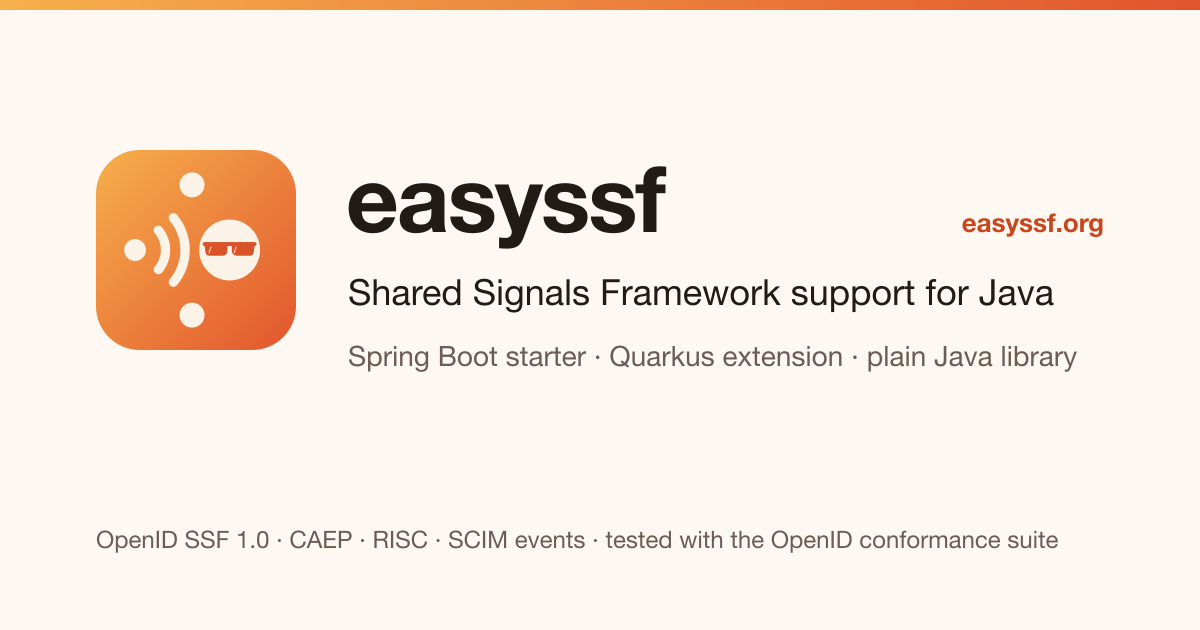
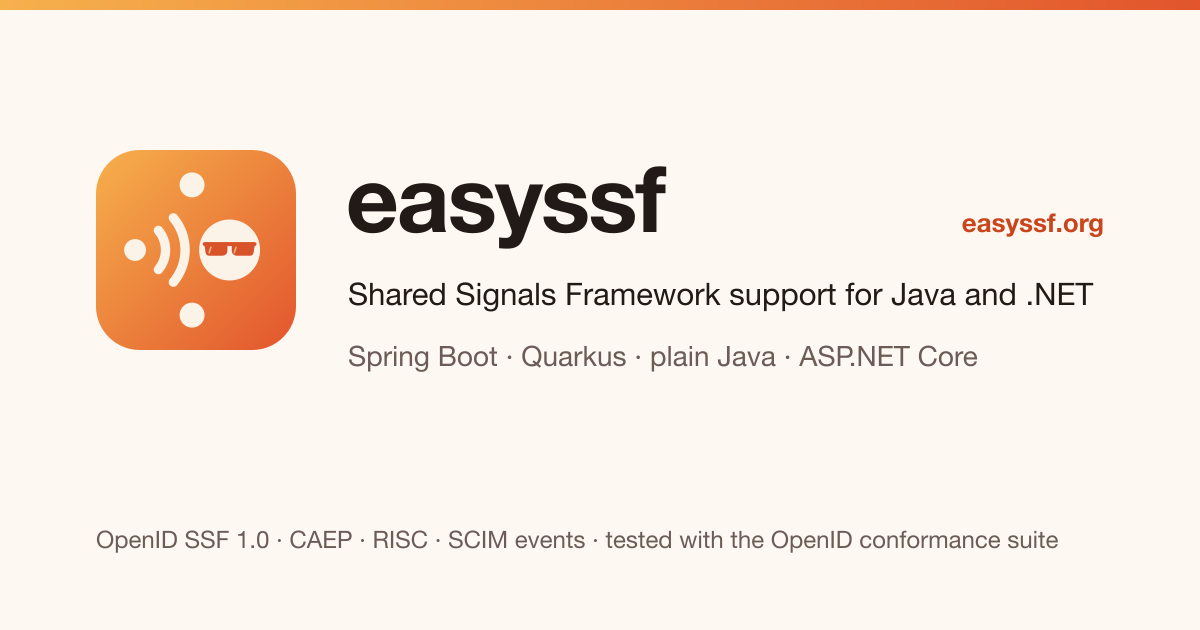
Broaden easyssf claim to include .NET support

Changed region(s): [[0.4317, 0.5429, 0.8942, 0.6032], [0.2775, 0.4222, 0.925, 0.5127]]

diff --git a/index.html b/index.html
@@ -3,8 +3,8 @@
 <head>
 <meta charset="utf-8">
 <meta name="viewport" content="width=device-width, initial-scale=1, viewport-fit=cover">
-<title>easyssf · Shared Signals Framework support for Java</title>
-<meta name="description" content="easyssf adds an OpenID Shared Signals Framework (SSF) receiver to JVM-based applications, with a Spring Boot starter and a Quarkus extension: it verifies security event tokens, revokes access tokens and ends sessions when the identity provider says so.">
+<title>easyssf · Shared Signals Framework support for Java and .NET</title>
+<meta name="description" content="easyssf adds an OpenID Shared Signals Framework (SSF) receiver to Java and .NET applications, with a Spring Boot starter, a Quarkus extension and an ASP.NET Core integration: it verifies security event tokens, revokes access tokens and ends sessions when the identity provider says so.">
 <link rel="icon" href="easyssf-icon.svg" type="image/svg+xml">
 <link rel="apple-touch-icon" href="apple-touch-icon.png">
 <link rel="canonical" href="https://easyssf.org/">
@@ -13,18 +13,18 @@
 <meta name="theme-color" content="#fdf8f1" media="(prefers-color-scheme: light)">
 <meta name="theme-color" content="#171210" media="(prefers-color-scheme: dark)">
 <meta property="og:site_name" content="easyssf">
-<meta property="og:title" content="easyssf · Shared Signals Framework support for Java">
-<meta property="og:description" content="Add an OpenID Shared Signals Framework receiver to your JVM-based application, Spring Boot and Quarkus included: verified security event tokens, revoked access tokens, ended sessions, tested with the OpenID conformance suite.">
+<meta property="og:title" content="easyssf · Shared Signals Framework support for Java and .NET">
+<meta property="og:description" content="Add an OpenID Shared Signals Framework receiver to your Java or .NET application, Spring Boot, Quarkus and ASP.NET Core included: verified security event tokens, revoked access tokens, ended sessions, tested with the OpenID conformance suite.">
 <meta property="og:url" content="https://easyssf.org/">
 <meta property="og:type" content="website">
 <meta property="og:locale" content="en_US">
 <meta property="og:image" content="https://easyssf.org/og-image.png">
 <meta property="og:image:width" content="1200">
 <meta property="og:image:height" content="630">
-<meta property="og:image:alt" content="easyssf: Shared Signals Framework support for Java, as a Spring Boot starter, a Quarkus extension and a plain Java library">
+<meta property="og:image:alt" content="easyssf: Shared Signals Framework support for Java and .NET, as a Spring Boot starter, a Quarkus extension, a plain Java library and an ASP.NET Core integration">
 <meta name="twitter:card" content="summary_large_image">
-<meta name="twitter:title" content="easyssf · Shared Signals Framework support for Java">
-<meta name="twitter:description" content="Add an OpenID Shared Signals Framework receiver to your JVM-based application, Spring Boot and Quarkus included, tested with the OpenID conformance suite.">
+<meta name="twitter:title" content="easyssf · Shared Signals Framework support for Java and .NET">
+<meta name="twitter:description" content="Add an OpenID Shared Signals Framework receiver to your Java or .NET application, Spring Boot, Quarkus and ASP.NET Core included, tested with the OpenID conformance suite.">
 <meta name="twitter:image" content="https://easyssf.org/og-image.png">
 <link rel="sitemap" type="application/xml" href="sitemap.xml">
 <link rel="stylesheet" href="site.css">
@@ -38,7 +38,7 @@
       "@id": "https://easyssf.org/#website",
       "url": "https://easyssf.org/",
       "name": "easyssf",
-      "description": "Shared Signals Framework support for Java",
+      "description": "Shared Signals Framework support for Java and .NET",
       "inLanguage": "en"
     },
     {
@@ -50,7 +50,7 @@
       "programmingLanguage": "Java",
       "runtimePlatform": ["Java 21", "Spring Boot 4.1", "Quarkus 3.27"],
       "license": "https://www.apache.org/licenses/LICENSE-2.0",
-      "description": "A Java library that adds an OpenID Shared Signals Framework (SSF) receiver to JVM-based applications, with a Spring Boot starter and a Quarkus extension: it verifies security event tokens, revokes access tokens and ends sessions when the identity provider says so.",
+      "description": "A library that adds an OpenID Shared Signals Framework (SSF) receiver to Java and .NET applications, with a Spring Boot starter, a Quarkus extension and an ASP.NET Core integration: it verifies security event tokens, revokes access tokens and ends sessions when the identity provider says so.",
       "keywords": ["Shared Signals Framework", "SSF", "CAEP", "RISC", "SCIM Events", "Security Event Token", "OpenID", "Spring Boot", "Quarkus", "Java", "Keycloak"],
       "about": [
         {"@type": "Thing", "name": "OpenID Shared Signals Framework 1.0", "url": "https://openid.net/specs/openid-sharedsignals-framework-1_0.html"},
@@ -92,15 +92,15 @@
 
 <div class="hero wrap">
 <div class="hero-text">
-  <h1>Shared Signals Framework<br>support for Java</h1>
+  <h1>Shared Signals Framework<br>support for Java and .NET</h1>
   <p class="lead">easyssf adds an <a href="https://openid.net/specs/openid-sharedsignals-framework-1_0.html">OpenID
-    Shared Signals Framework</a> receiver to your JVM-based application, so that it reacts when your identity
+    Shared Signals Framework</a> receiver to your Java or .NET application, so that it reacts when your identity
     provider revokes a session, changes a credential or signals a risk. The receiver verifies the security events,
     the CAEP events about sessions and credentials, the RISC events about accounts and the SCIM Events about your
     users, rejects the access tokens and ends the sessions concerned, and hands everything else to your code.
-    Spring Boot and Quarkus get a starter and an extension; other JVM applications use the receiver library
-    directly. A port to .NET, <a href="https://github.com/easyssf/easyssf-dotnet">easyssf-dotnet</a>, is on its
-    way to NuGet.</p>
+    Spring Boot and Quarkus get a starter and an extension, other JVM applications use the receiver library
+    directly, and ASP.NET Core applications the port <a href="https://github.com/easyssf/easyssf-dotnet">easyssf-dotnet</a>,
+    on its way to NuGet.</p>
   <div class="badges">
     <span class="badge">0.6.0 on Maven Central</span>
     <span class="badge">Java 21+</span>

diff --git a/news.html b/news.html
@@ -4,7 +4,7 @@
 <meta charset="utf-8">
 <meta name="viewport" content="width=device-width, initial-scale=1, viewport-fit=cover">
 <title>News · easyssf</title>
-<meta name="description" content="Releases and other news of easyssf, the Shared Signals Framework library for Java.">
+<meta name="description" content="Releases and other news of easyssf, the Shared Signals Framework library for Java and .NET.">
 <link rel="icon" href="easyssf-icon.svg" type="image/svg+xml">
 <link rel="apple-touch-icon" href="apple-touch-icon.png">
 <link rel="canonical" href="https://easyssf.org/news.html">
@@ -13,7 +13,7 @@
 <meta name="theme-color" content="#171210" media="(prefers-color-scheme: dark)">
 <meta property="og:site_name" content="easyssf">
 <meta property="og:title" content="News · easyssf">
-<meta property="og:description" content="Releases and other news of easyssf, the Shared Signals Framework library for Java.">
+<meta property="og:description" content="Releases and other news of easyssf, the Shared Signals Framework library for Java and .NET.">
 <meta property="og:url" content="https://easyssf.org/news.html">
 <meta property="og:type" content="website">
 <meta property="og:image" content="https://easyssf.org/og-image.png">
